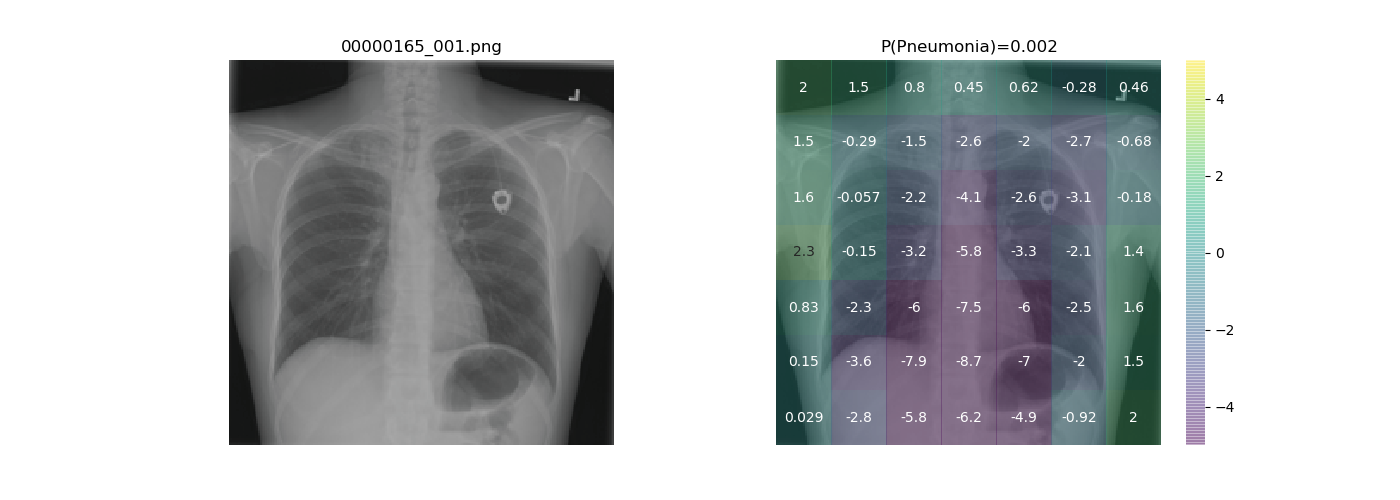
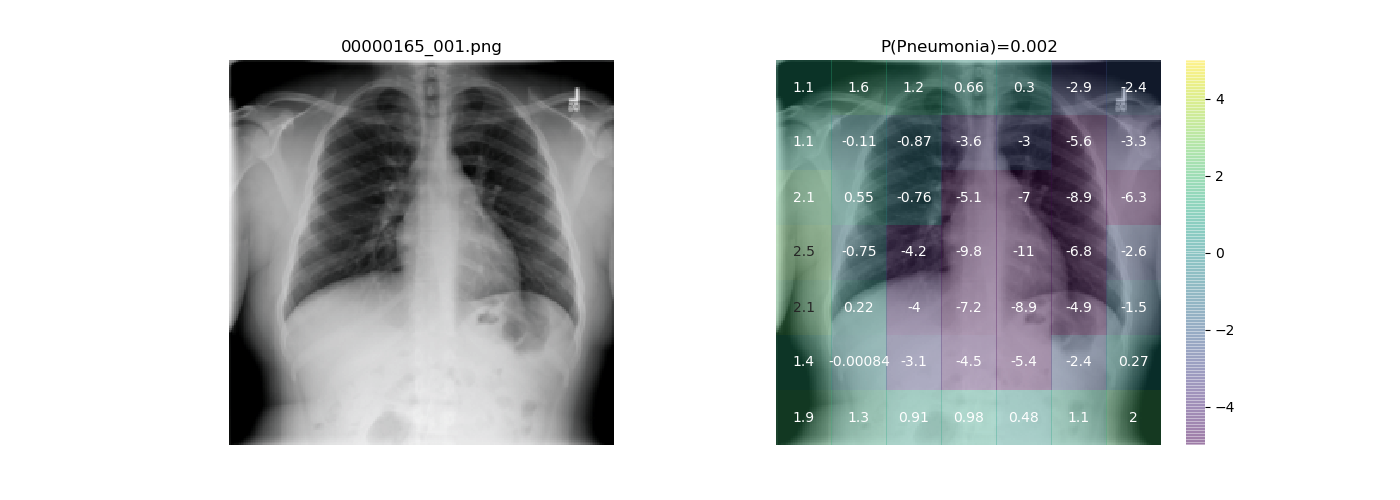
Fecth response and string encoded images

diff --git a/frontend/src/App.js b/frontend/src/App.js
@@ -6,6 +6,7 @@ import "./App.css";
 import { css } from "@emotion/core";
 import { ClipLoader } from "react-spinners";
 import { PDFReader } from "react-read-pdf";
+var base64Img = require('base64-img');
 
 const override = css`
   display: block;
@@ -31,7 +32,20 @@ class App extends Component {
 
   reqListener = () => {
     console.log(this.responseText);
-  }
+  };
+
+  base64encode = () => {
+    return new Promise((resolve, reject) => {
+      var file = this.state.selectedFile;
+      var reader = new FileReader();
+      reader.onloadend = () => {
+        console.log("RESULT", reader.result);
+        resolve(reader.result)
+      }
+      reader.readAsDataURL(file);
+    })
+  };
+
 
 
   upload = async () => {
@@ -42,41 +56,50 @@ class App extends Component {
 
     let file = this.state.selectedFile;
     console.log("the file is", file);
+    let base64img = await this.base64encode();
+    console.log("the image is", base64img)
 
-    var formData = new FormData();
+    let diagnosis
 
     if (this.state.diagnosis) {
-      formData.append("diagnosis", this.state.diagnosis);
+      diagnosis = this.state.diagnosis;
     } else {
-      formData.append("diagnosis", "Pneumonia");
+      diagnosis = "Pneumonia"
     }
 
-    // HTML file input, chosen by user
-    formData.append("file", file);
+    let url = "http://localhost:5000/uploader";
+    try {
+      let data = { base64img, diagnosis };
+      // try to send the image using fetch
+      let response = await fetch(url, {
+        method: "POST", // or 'PUT'
+        body: JSON.stringify(data), // data can be `string` or {object}!
+        headers: {
+          "Content-Type": "application/json"
+        }
+      });
+      console.log("the response is", response)
 
-    var request = new XMLHttpRequest();
-    request.addEventListener("load", this.reqListener);
-    request.open("POST", "http://localhost:5000/uploader");
-    request.send(formData);
-    //var body = XMLHttpRequest.response;
-    //console.log("the body is", body);
+      let responseJson = await response.json();
+      console.log("the response json is", responseJson);
 
-    // if (file) {
-    //   try {
-    //     const response = await fetch("http://localhost:5000/predict", {
-    //       // Your POST endpoint
-    //       method: "POST",
-    //       headers: { "Content-Type": "application/json" },
-    //       body: file
-    //       // This is your file object
-    //     });
-    //     console.log("the response is", response);
-    //     const responseJson = response.json();
-    //     console.log("the response is", responseJson);
-    //   } catch (err) {
-    //     console.log(err);
-    //   }
-    // }
+      this.setState({
+        response: responseJson
+      })
+    } catch (err) {
+      console.error("Error:", err);
+    }
+
+    // var formData = new FormData();
+
+
+
+    // // HTML file input, chosen by user
+    // formData.append("file", file);
+    // var request = new XMLHttpRequest();
+    // request.addEventListener("load", this.reqListener);
+    // request.open("POST", "http://localhost:5000/uploader");
+    // request.send(formData);
   };
 
   handleselectedFile = event => {
@@ -140,10 +163,10 @@ class App extends Component {
             </div>
           </div>
 
-          {this.state.showPrediction && (
+          {this.state.showPrediction && this.state.response && this.state.response.prediction && (
             <div className="Prediction-container" id="prediction">
-              <h5>Prediction, Pneumonia, 0.06</h5>
-              <img className="Prediction-image" src={prediction} />
+              <h5>Prediction, Pneumonia, {this.state.response.prediction["Predicted Probability"]["Pneumonia"]}</h5>
+              <img className="Prediction-image" src={prediction}/>
             </div>
           )}
 

diff --git a/backend/predict.py b/backend/predict.py
@@ -7,10 +7,15 @@ import pandas as pd
 import warnings
 from werkzeug.utils import secure_filename
 import matplotlib.pyplot as plt
+import base64
+import json
+from io import BytesIO
+from PIL import Image
+
 
 app = Flask(__name__)
 CORS(app)
-
+ENCODING = 'utf-8'
 # create the folders when setting up your app
 os.makedirs(os.path.join(app.instance_path), exist_ok=True)
 
@@ -33,9 +38,20 @@ def predict():
 @app.route('/uploader', methods = ['GET', 'POST'])
 def upload_file():
    if request.method == 'POST':
-      f = request.files['file']
+      #f = request.files['file']
       print("the request is")
-      print(request)
+      #print(request)
+      content = request.json
+      #print(content)
+
+      file = content['base64img']
+      diagnosis = content['diagnosis']
+
+      starter = file.find(',')
+      image_data = file[starter+1:]
+      image_data = bytes(image_data, encoding="ascii")
+      f = Image.open(BytesIO(base64.b64decode(image_data)))
+
       # when saving the file
       # This is hardcoded to work with Pneumonia need to fix for all diseases.
       f.save(os.path.join(app.instance_path, secure_filename('00000165_001.png')))
@@ -50,14 +66,24 @@ def upload_file():
       dataloader,model= V.load_data(PATH_TO_IMAGES,LABEL,PATH_TO_MODEL,POSITIVE_FINDINGS_ONLY,STARTER_IMAGES)
       print("Cases for review:")
       print(len(dataloader))
-      preds=V.show_next(dataloader,model, LABEL)
+      preds, imglocation=V.show_next(dataloader,model, LABEL)
+      print(preds)
+      print(imglocation)
+      encodedimage = ""
+
+      with open(imglocation, "rb") as image_file:
+         encodedimage = base64.b64encode(image_file.read())
       #preds
 
-      plt.savefig(preds, format='png')
-      preds.seek(0)
+      print(encodedimage)
+      base64_string = encodedimage.decode(ENCODING)
 
-      response=make_response(preds.getvalue())
-      response.headers['Content-Type'] = 'image/png'
-      preds.close()
-      return response
-      #return jsonify({ 'uploaded': True })
+      # plt.savefig(preds, format='png')
+      # preds.seek(0)
+      # response=make_response(preds.getvalue())
+      # response.headers['Content-Type'] = 'image/png'
+      # preds.close()
+      #return send_file(preds, mimetype='image/png')
+      #return response
+      jsonfiles = json.loads(preds.to_json())
+      return jsonify({ 'prediction': jsonfiles, 'encodedimage': base64_string  })

diff --git a/backend/visualize_prediction.py b/backend/visualize_prediction.py
@@ -299,7 +299,9 @@ def show_next(dataloader, model, LABEL):
     showcxr.axis('off')
     showcxr.set_title(filename[0])
     plt.savefig(str(LABEL+"_P"+str(predx[label_index])+"_file_"+filename[0]))
-    plt.show()
+    imglocation = str(LABEL+"_P"+str(predx[label_index])+"_file_"+filename[0])
+    print(imglocation)
+    #plt.show()
 
 
 
@@ -309,7 +311,7 @@ def show_next(dataloader, model, LABEL):
     preds.set_index("Finding",inplace=True)
     preds.sort_values(by='Predicted Probability',inplace=True,ascending=False)
 
-    return preds
+    return preds, imglocation
 
 
 def show_single(dataloader, model, LABEL):
